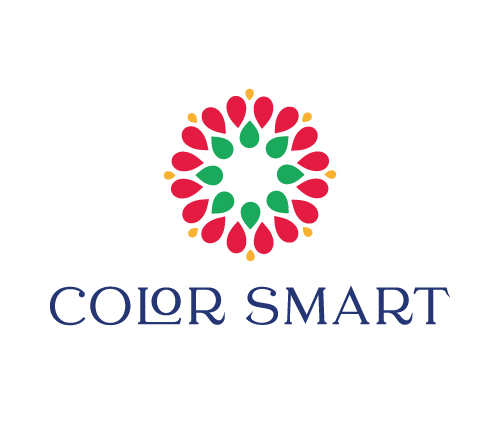
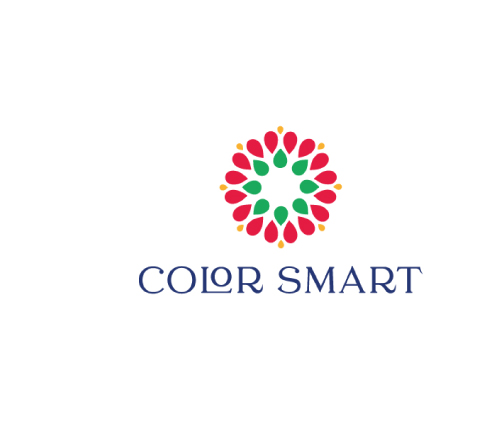
2

Changed region(s): [[0.09, 0.2121, 0.9, 0.7576]]

diff --git a/index - Copy.html b/index - Copy.html
@@ -187,50 +187,28 @@ ul{list-style:none}
 .photo-band-caption .eyebrow{color:var(--amber-light)}
 .photo-band-caption p{font-family:'Fraunces', serif; font-weight:600; font-size:clamp(19px,2.4vw,28px); line-height:1.28}
 
-/* PARTNER — Color Smart spotlight */
+/* PARTNER BLOCK — Color Smart, positioned low, contained */
 .partner-section{padding:70px 0}
-.partner-spotlight{
-    display:grid;
-    grid-template-columns:220px 1fr;
-    border:1px solid var(--line);
-    background:#fff;
-    overflow:hidden;
+.partner-block{
+    background:var(--paper-2); border:1px solid var(--line);
+    padding:clamp(26px,3.6vw,42px);
+    display:grid; grid-template-columns:auto 1fr auto; gap:32px; align-items:center;
 }
-.partner-visual{
-    position:relative;
-    background:var(--paper-2);
-    overflow:auto;
-    min-height:220px;
+.partner-block-logo{width:124px; height:124px; object-fit:cover; border:1px solid var(--ink); background:#fff; flex-shrink:0}
+.partner-block-label{display:block; font-size:11px; font-weight:700; letter-spacing:.08em; text-transform:uppercase; color:var(--amber-deep); margin-bottom:4px}
+.partner-block-name{display:inline-block; font-family:'Fraunces', serif; font-weight:600; font-size:19px; color:var(--ink); border-bottom:2px solid var(--amber); padding-bottom:2px}
+.partner-block-body p{margin-top:8px; font-size:13.5px; color:var(--slate); max-width:420px}
+.partner-block-actions{display:flex; flex-direction:column; align-items:flex-end; gap:14px}
+.partner-block-links{display:flex; flex-direction:column; gap:6px; align-items:flex-end}
+.partner-block-links a{font-size:12.5px; font-weight:700; text-transform:uppercase; letter-spacing:.02em; color:var(--ink); border-bottom:1px solid transparent}
+.partner-block-links a:hover{color:var(--amber-deep); border-color:var(--amber-deep)}
+.partner-block-socials{display:flex; gap:10px}
+.partner-block-socials a{
+    width:36px; height:36px; display:flex; align-items:center; justify-content:center;
+    border:1.5px solid var(--ink); color:var(--ink); transition:background .2s ease, color .2s ease, border-color .2s ease;
 }
-.partner-visual img{
-    width:100%;
-    height:100%;
-    object-fit:cover;
-    display:block;
-}
-.partner-content{padding:38px clamp(24px,4vw,48px) 34px}
-.partner-content .partner-kicker{display:block; font-size:11px; font-weight:700; letter-spacing:.08em; text-transform:uppercase; color:var(--amber-deep); margin-bottom:8px}
-.partner-content h3{font-family:'Fraunces', serif; font-weight:600; font-size:24px; color:var(--ink)}
-.partner-content p{margin-top:10px; color:var(--slate); font-size:14.5px; max-width:480px}
-.partner-actions{display:flex; flex-wrap:wrap; align-items:center; gap:12px; margin-top:24px}
-.pill-link{
-    display:inline-flex; align-items:center; gap:6px;
-    padding:10px 18px; border:1.5px solid var(--ink); border-radius:999px;
-    font-size:13px; font-weight:600; color:var(--ink);
-    transition:background .2s ease, color .2s ease, border-color .2s ease;
-}
-.pill-link:hover{background:var(--ink); color:#fff}
-.pill-link.filled{background:var(--amber); border-color:var(--amber); color:#fff}
-.pill-link.filled:hover{background:var(--amber-deep); border-color:var(--amber-deep)}
-.partner-socials-row{display:flex; gap:10px; margin-left:auto}
-.partner-social-btn{
-    width:38px; height:38px; border-radius:50%;
-    display:flex; align-items:center; justify-content:center;
-    border:1.5px solid var(--ink); color:var(--ink);
-    transition:background .2s ease, color .2s ease, border-color .2s ease;
-}
-.partner-social-btn:hover{background:var(--amber); border-color:var(--amber); color:#fff}
-.partner-social-btn svg{width:15px; height:15px; fill:currentColor}
+.partner-block-socials a:hover{background:var(--amber); border-color:var(--amber); color:#fff}
+.partner-block-socials svg{width:15px; height:15px; fill:currentColor}
 
 /* CTA — plain (text sections) and photo (homepage/contact) */
 .cta-plain{background:var(--paper-2); padding:76px 0; text-align:center}
@@ -327,10 +305,9 @@ footer{background:var(--ink-2); color:#B7BEC5; padding:60px 0 26px}
     .service-row-ghost{display:none}
     .service-detail{grid-template-columns:1fr; gap:24px}
     .principles{grid-template-columns:1fr}
-    .partner-spotlight{grid-template-columns:1fr}
-    .partner-visual{min-height:200px}
-    .partner-actions{gap:10px}
-    .partner-socials-row{margin-left:0; width:100%; justify-content:flex-start; margin-top:4px}
+    .partner-block{grid-template-columns:1fr; text-align:left}
+    .partner-block-actions{align-items:flex-start}
+    .partner-block-links{align-items:flex-start}
     .contact-hero-inner{grid-template-columns:1fr}
     .contact-grid{grid-template-columns:1fr; gap:36px}
     .footer-grid{grid-template-columns:1fr 1fr}
@@ -509,29 +486,23 @@ footer{background:var(--ink-2); color:#B7BEC5; padding:60px 0 26px}
         </div>
     </div>
 
-        <section class="partner-section pad light-section" id="color-smart">
+        <section class="partner-section light-section">
         <div class="container">
-            <div class="section-heading" style="margin-bottom:36px">
-                <div class="eyebrow"><span class="mark"></span>Parteneriat</div>
-                <h2 class="serif">Un singur <em>furnizor de finisaje</em>, verificat tehnic.</h2>
-                <p>Pentru vopsele și sisteme de finisaj premium, lucrăm constant cu un partener ale cărui produse le verificăm înainte de a le recomanda pe un proiect.</p>
-            </div>
-
-            <div class="partner-spotlight">
-                <div class="partner-visual">
-                    <img src="images/partner-colorsmart.jpg" alt="Color Smart" onerror="this.style.display='none'">
-                </div>
-                <div class="partner-content">
-                    <span class="partner-kicker">Materiale premium prin</span>
-                    <h3 class="serif">Color Smart</h3>
+            <div class="partner-block">
+                <img class="partner-block-logo" src="images/partner-colorsmart.jpg" alt="Logo Color Smart" onerror="this.style.display='none'">
+                <div class="partner-block-body">
+                    <span class="partner-block-label">Materiale premium prin</span>
+                    <span class="partner-block-name">Color Smart</span>
                     <p>Pentru finisaje și sisteme de vopsire, recomandăm și coordonăm selecția de materiale împreună cu Color Smart.</p>
-                    <div class="partner-actions">
-                        <a class="pill-link filled" href="https://colorsmart.ro/" target="_blank" rel="noopener">Site oficial →</a>
-                        <a class="pill-link" href="https://colorsmartpaints.ro/" target="_blank" rel="noopener">Catalog vopseluri →</a>
-                        <div class="partner-socials-row">
-                            <a class="partner-social-btn" href="https://www.instagram.com/color.smart/" aria-label="Instagram" target="_blank" rel="noopener"><svg viewBox="0 0 24 24" aria-hidden="true"><path d="M12 2c2.72 0 3.06.01 4.12.06 1.06.05 1.79.22 2.43.47.66.26 1.22.6 1.77 1.15.55.55.89 1.11 1.15 1.77.25.64.42 1.37.47 2.43.05 1.06.06 1.4.06 4.12s-.01 3.06-.06 4.12c-.05 1.06-.22 1.79-.47 2.43-.26.66-.6 1.22-1.15 1.77-.55.55-1.11.89-1.77 1.15-.64.25-1.37.42-2.43.47-1.06.05-1.4.06-4.12.06s-3.06-.01-4.12-.06c-1.06-.05-1.79-.22-2.43-.47-.66-.26-1.22-.6-1.77-1.15-.55-.55-.89-1.11-1.15-1.77-.25-.64-.42-1.37-.47-2.43C2.01 15.06 2 14.72 2 12s.01-3.06.06-4.12c.05-1.06.22-1.79.47-2.43.26-.66.6-1.22 1.15-1.77.55-.55 1.11-.89 1.77-1.15.64-.25 1.37-.42 2.43-.47C8.94 2.01 9.28 2 12 2zm0 1.8c-2.67 0-2.99.01-4.04.06-.86.04-1.33.18-1.64.3-.41.16-.71.35-1.02.66-.31.31-.5.61-.66 1.02-.12.31-.26.78-.3 1.64-.05 1.05-.06 1.37-.06 4.04s.01 2.99.06 4.04c.04.86.18 1.33.3 1.64.16.41.35.71.66 1.02.31.31.61.5 1.02.66.31.12.78.26 1.64.3 1.05.05 1.37.06 4.04.06s2.99-.01 4.04-.06c.86-.04 1.33-.18 1.64-.3.41-.16.71-.35 1.02-.66.31-.31.5-.61.66-1.02.12-.31.26-.78.3-1.64.05-1.05.06-1.37.06-4.04s-.01-2.99-.06-4.04c-.04-.86-.18-1.33-.3-1.64-.16-.41-.35-.71-.66-1.02-.31-.31-.61-.5-1.02-.66-.31-.12-.78-.26-1.64-.3-1.05-.05-1.37-.06-4.04-.06zm0 3.06a5.14 5.14 0 1 1 0 10.28 5.14 5.14 0 0 1 0-10.28zm0 1.8a3.34 3.34 0 1 0 0 6.68 3.34 3.34 0 0 0 0-6.68zm5.34-1.99a1.2 1.2 0 1 1 0 2.4 1.2 1.2 0 0 1 0-2.4z"/></svg></a>
-                            <a class="partner-social-btn" href="https://www.facebook.com/colorsmartdistribution/?locale=ro_RO" aria-label="Facebook" target="_blank" rel="noopener"><svg viewBox="0 0 24 24" aria-hidden="true"><path d="M13.5 22v-8.5h2.85l.43-3.31H13.5V8.06c0-.96.27-1.61 1.65-1.61h1.76V3.5c-.3-.04-1.35-.13-2.57-.13-2.54 0-4.28 1.55-4.28 4.4v2.46H7.2v3.31h2.86V22h3.44z"/></svg></a>
-                        </div>
+                </div>
+                <div class="partner-block-actions">
+                    <div class="partner-block-links">
+                        <a href="https://colorsmart.ro/" target="_blank" rel="noopener">Site oficial →</a>
+                        <a href="https://colorsmartpaints.ro/" target="_blank" rel="noopener">Catalog vopseluri →</a>
+                    </div>
+                    <div class="partner-block-socials">
+                        <a href="https://www.instagram.com/color.smart/" aria-label="Instagram" target="_blank" rel="noopener"><svg viewBox="0 0 24 24" aria-hidden="true"><path d="M12 2c2.72 0 3.06.01 4.12.06 1.06.05 1.79.22 2.43.47.66.26 1.22.6 1.77 1.15.55.55.89 1.11 1.15 1.77.25.64.42 1.37.47 2.43.05 1.06.06 1.4.06 4.12s-.01 3.06-.06 4.12c-.05 1.06-.22 1.79-.47 2.43-.26.66-.6 1.22-1.15 1.77-.55.55-1.11.89-1.77 1.15-.64.25-1.37.42-2.43.47-1.06.05-1.4.06-4.12.06s-3.06-.01-4.12-.06c-1.06-.05-1.79-.22-2.43-.47-.66-.26-1.22-.6-1.77-1.15-.55-.55-.89-1.11-1.15-1.77-.25-.64-.42-1.37-.47-2.43C2.01 15.06 2 14.72 2 12s.01-3.06.06-4.12c.05-1.06.22-1.79.47-2.43.26-.66.6-1.22 1.15-1.77.55-.55 1.11-.89 1.77-1.15.64-.25 1.37-.42 2.43-.47C8.94 2.01 9.28 2 12 2zm0 1.8c-2.67 0-2.99.01-4.04.06-.86.04-1.33.18-1.64.3-.41.16-.71.35-1.02.66-.31.31-.5.61-.66 1.02-.12.31-.26.78-.3 1.64-.05 1.05-.06 1.37-.06 4.04s.01 2.99.06 4.04c.04.86.18 1.33.3 1.64.16.41.35.71.66 1.02.31.31.61.5 1.02.66.31.12.78.26 1.64.3 1.05.05 1.37.06 4.04.06s2.99-.01 4.04-.06c.86-.04 1.33-.18 1.64-.3.41-.16.71-.35 1.02-.66.31-.31.5-.61.66-1.02.12-.31.26-.78.3-1.64.05-1.05.06-1.37.06-4.04s-.01-2.99-.06-4.04c-.04-.86-.18-1.33-.3-1.64-.16-.41-.35-.71-.66-1.02-.31-.31-.61-.5-1.02-.66-.31-.12-.78-.26-1.64-.3-1.05-.05-1.37-.06-4.04-.06zm0 3.06a5.14 5.14 0 1 1 0 10.28 5.14 5.14 0 0 1 0-10.28zm0 1.8a3.34 3.34 0 1 0 0 6.68 3.34 3.34 0 0 0 0-6.68zm5.34-1.99a1.2 1.2 0 1 1 0 2.4 1.2 1.2 0 0 1 0-2.4z"/></svg></a>
+                        <a href="https://www.facebook.com/colorsmartdistribution/?locale=ro_RO" aria-label="Facebook" target="_blank" rel="noopener"><svg viewBox="0 0 24 24" aria-hidden="true"><path d="M13.5 22v-8.5h2.85l.43-3.31H13.5V8.06c0-.96.27-1.61 1.65-1.61h1.76V3.5c-.3-.04-1.35-.13-2.57-.13-2.54 0-4.28 1.55-4.28 4.4v2.46H7.2v3.31h2.86V22h3.44z"/></svg></a>
                     </div>
                 </div>
             </div>
@@ -573,7 +544,7 @@ footer{background:var(--ink-2); color:#B7BEC5; padding:60px 0 26px}
                 </div>
                 <div class="footer-col">
                     <h4>Contact</h4>
-                    <a href="mailto:contact@elementiumconsulting.ro">contact@elementiumconsulting.ro</a>
+                    <a href="mailto:contact@elementium.ro">contact@elementium.ro</a>
                     <p>București &amp; Ilfov</p>
                     <p>Luni – Vineri · 09:00 – 18:00</p>
                 </div>
